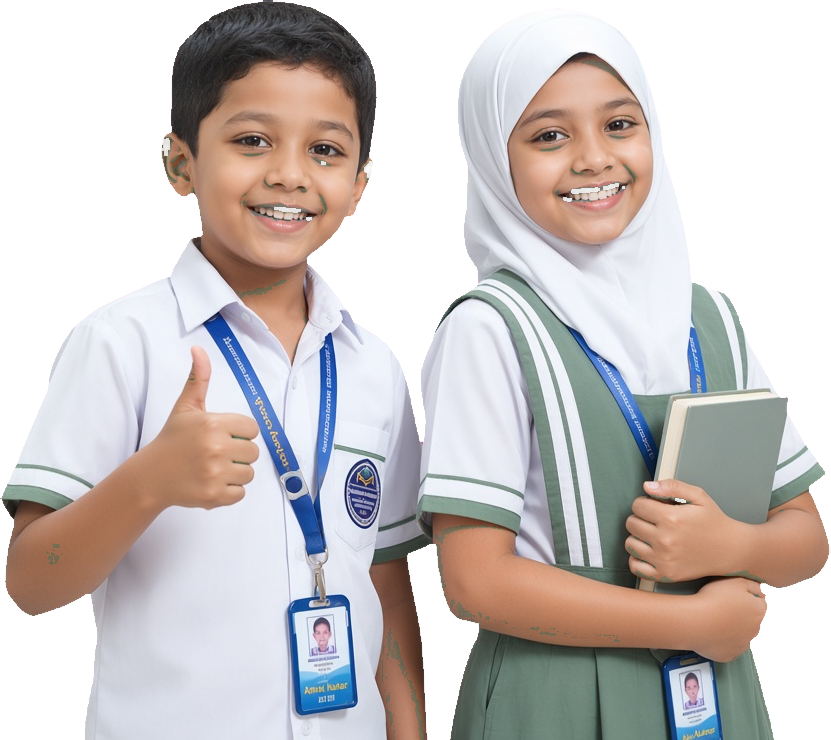
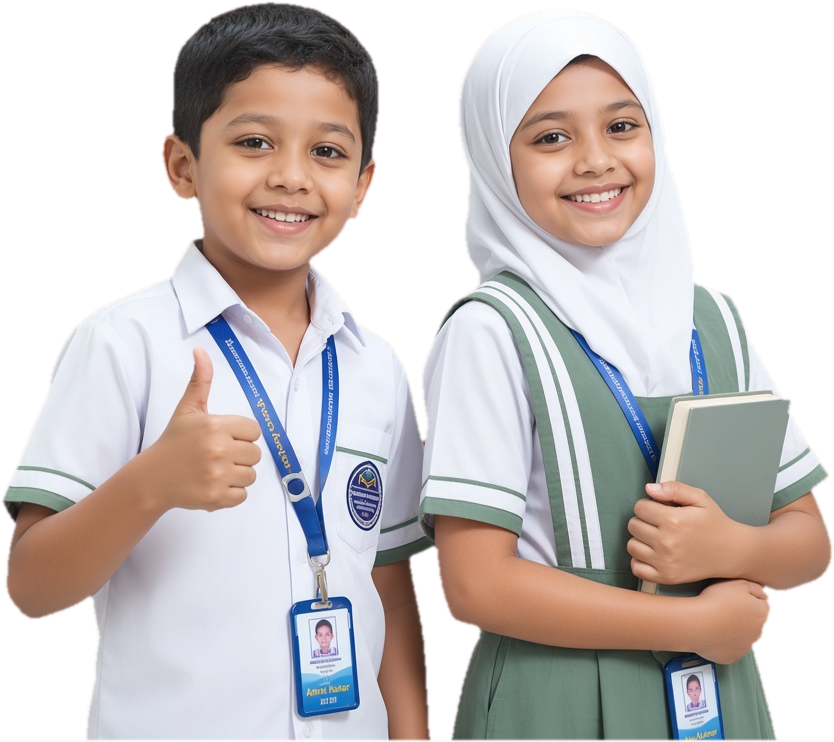
Replace the hero students with a cutout that keeps the faces solid.
The previous file had transparent holes in the skin. This version is the clean 834 by 742 cutout, with a lossless WebP and the PNG fallback.

diff --git a/src/site/pages/HomePage.tsx b/src/site/pages/HomePage.tsx
@@ -412,8 +412,8 @@ function HeroStudents({ reduce }: { reduce: boolean | null }) {
           <img
             src="/site/hero-students.png"
             alt="An-Noor students in school uniform"
-            width={831}
-            height={740}
+            width={834}
+            height={742}
             decoding="async"
             className="h-auto w-[min(18.5rem,calc(100vw-3.5rem))] sm:w-[22rem] lg:h-[38rem] lg:w-auto"
           />
